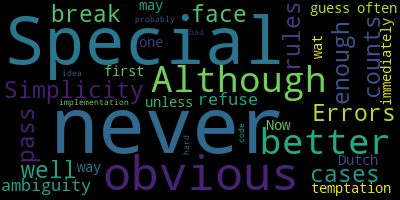
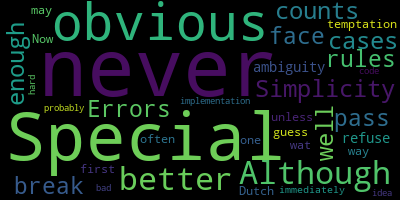
Added new Word Cloud for comparison

diff --git a/flaskr/templates/reports/quickReport.html b/flaskr/templates/reports/quickReport.html
@@ -90,9 +90,21 @@ body {font-family: "Lato", sans-serif}
 
 <br>
 <br>
-<div style="display: flex;justify-content: center;align-items: center;">
-    <img src="../../static/images/WordCloud/wordcloud.png" alt="WordCloud.png" style="width:350px;height:180px;border: 5px solid purple;">
+
+
+<div style="display: flex;justify-content: center;align-items: center; border: 3px solid black;" >
+  <div style="margin-left: 90px">
+    <h2 style="float: right;margin-right: 7em"> Suspect Word Cloud </h1>
+    <img src="../../static/images/WordCloud/wordcloud.png" alt="WordCloud.png" style="display: block;margin-left: auto;margin-right: auto;width: 50%;" >
+  </div>
+  <div>
+    <h2  style="float: left;margin-left: 7em"> Comparison Word Cloud </h1>
+    <img src="../../static/images/WordCloud/wordcloud2.png" alt="WordCloud2.png" style="display: block;margin-left: auto;margin-right: auto;width: 50%;">
+  </div>
 </div>
+
+<!--<img src="../../static/images/WordCloud/wordcloud2.png" alt="WordCloud2.png" style="width:350px;height:180px;border: 4px solid purple;margin-left: 12em">-->
+  
 
 
 <!-- End Page Content -->

diff --git a/flaskr/__init__.py b/flaskr/__init__.py
@@ -279,11 +279,16 @@ def create_app(test_config=None):
         # Highlight files
         highlights1 = highlight(file1, regexes)
         highlights2 = highlight(file2, regexes)
+        
+        #Word Cloud
         wordcloud = WordCloud().generate(file1)
-        # wordcloud.to_file("wordcloud.png")
-        # save wordcloud image to the static/Wordcloud folder
         imgPath = os.getenv('UPLOAD_IMG')
         wordcloud.to_file(f"{imgPath}SimiLabs_2022/flaskr/static/images/WordCloud/wordcloud.png")  
+        
+        wordcloud2 = WordCloud().generate(file2)
+        imgPath = os.getenv('UPLOAD_IMG')
+        wordcloud2.to_file(f"{imgPath}SimiLabs_2022/flaskr/static/images/WordCloud/wordcloud2.png")       
+        
         # Calculate the similarity score between the two documents
         if request.form.get("textsimilarity") == "cosine":
             percentage = round(calc_cosine_similarity(file1, file2)[0]*100,2)
